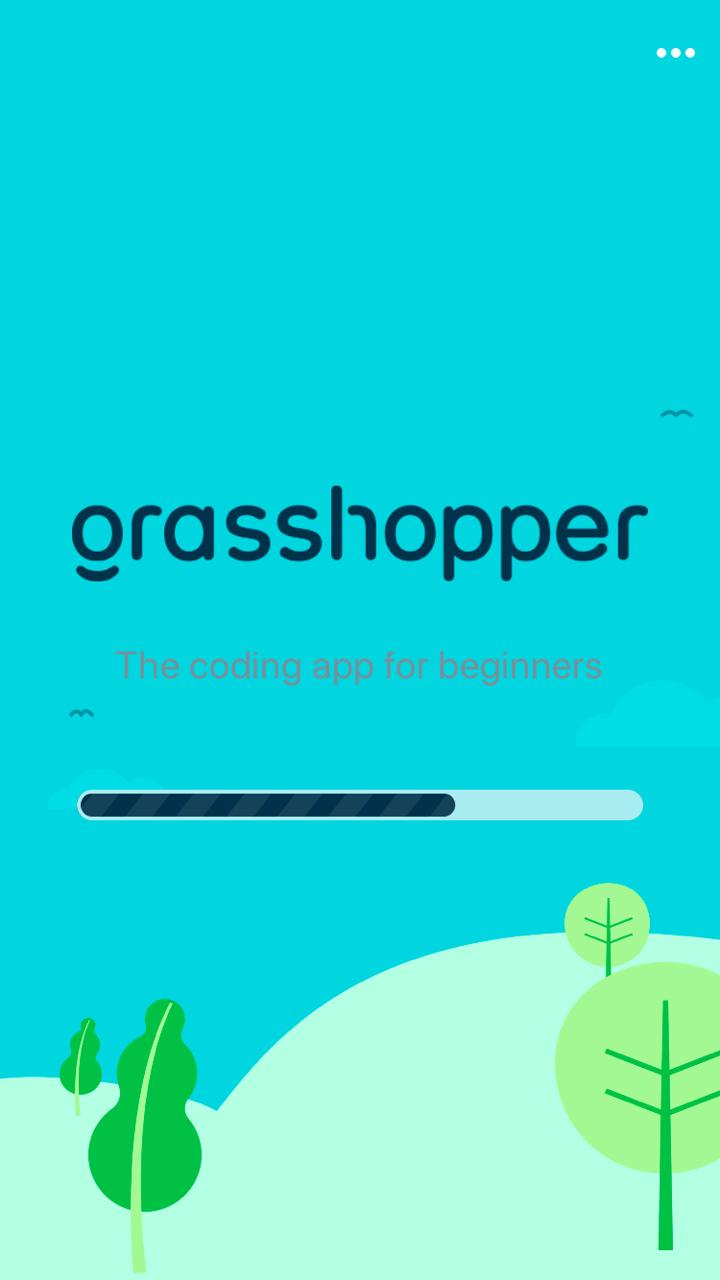
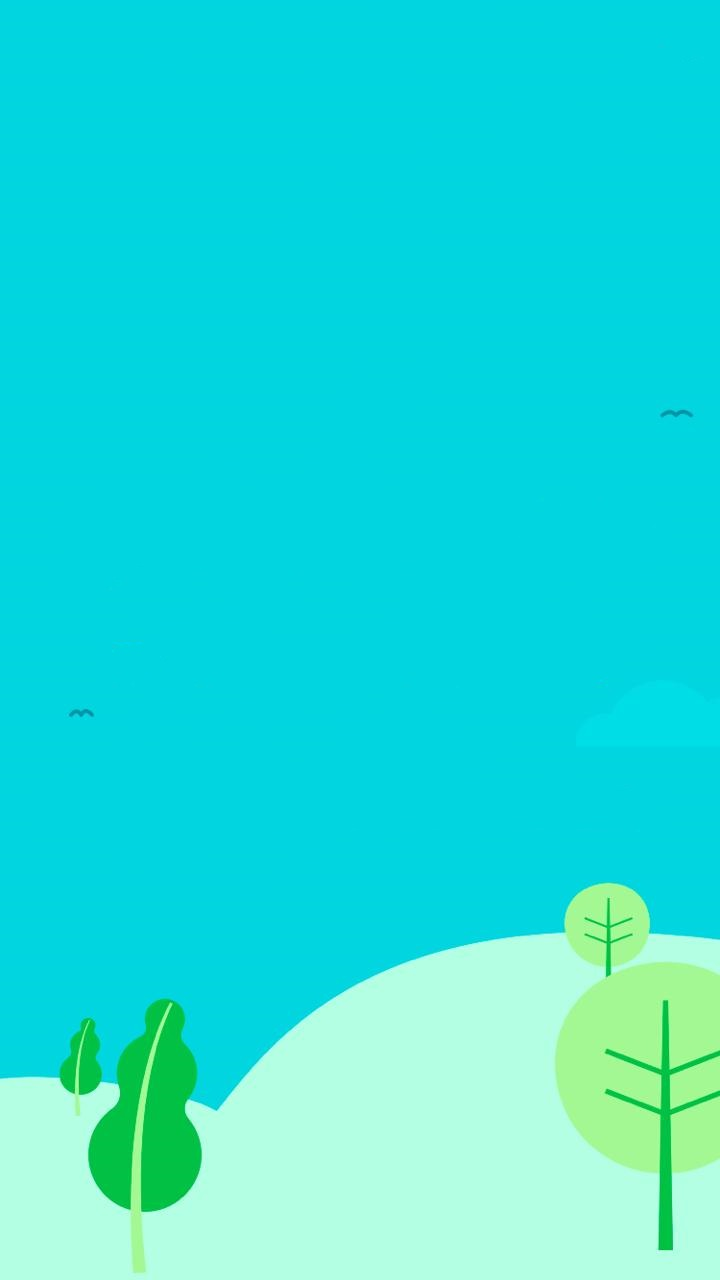
initial c

diff --git a/lib/main.dart b/lib/main.dart
@@ -1,5 +1,4 @@
 import "package:flutter/material.dart";
-import 'loader.dart';
 import 'dart:async';
 import 'homescreen.dart';
 void main() {
@@ -35,59 +34,19 @@ class _SplashScreenState extends State<SplashScreen>{
   @override
   Widget build(BuildContext context) {
     // TODO: implement build
-    return Scaffold(
-    body:
-      Stack(
-      fit: StackFit.expand,
-      children: <Widget>[
-        Container(
-          decoration: BoxDecoration(
-              gradient: LinearGradient(
-                begin: Alignment.topCenter,
-                end: Alignment.bottomCenter,
-                colors: [Colors.lightBlue[900],Colors.lightBlue[800],Colors.lightBlue[700],Colors.lightBlue[600],Colors.lightBlue[400],
-                  Colors.lightBlue[300],Colors.lightBlue[200],Colors.lightBlue[100],]
-              ),
-          ),
+    return Container(
+      decoration: BoxDecoration(
+        image: DecorationImage(
+            image: AssetImage('assets/home_image_grasshopperx.jpeg'),
+            fit: BoxFit.cover
+        ) ,
+      ),
+      child: Center(
+        child: CircularProgressIndicator(
+          valueColor: AlwaysStoppedAnimation<Color>(Colors.redAccent),
         ),
-        Column(
-          mainAxisAlignment: MainAxisAlignment.start,
-          children: <Widget>[
-            Expanded(
-              flex: 2,
-              child: Container(
-                child: Column(
-                  mainAxisAlignment: MainAxisAlignment.center,
-                  children: <Widget>[
-                    CircleAvatar(
-                      backgroundColor: Colors.white,
-                      radius: 50.0,
-                      child: Icon(Icons.computer,
-                      color: Colors.deepPurple,
-                      size: 50.0,),
-                    ),
-                    Text("Xpense",style: TextStyle(color: Colors.white,fontSize: 50, fontWeight:FontWeight.bold ),),
-                    Padding(padding: EdgeInsets.only(top: 1.0))
-                  ],
-                ),
-              ),
-            ),
-            Text("Your personal expense manager",style: TextStyle(color: Colors.white,fontSize: 18.0),),
-            Expanded(
-              flex: 1,
-              child: Column(
-                mainAxisAlignment: MainAxisAlignment.center,
-                children: <Widget>[
-                  Loader(),
-                  Padding(padding: EdgeInsets.only(top: 20.0))
-
-                ],
-              ),
-            ),
-          ],
-        )
-      ],
-    )
+      ),
     );
-  }
+
+
 }
